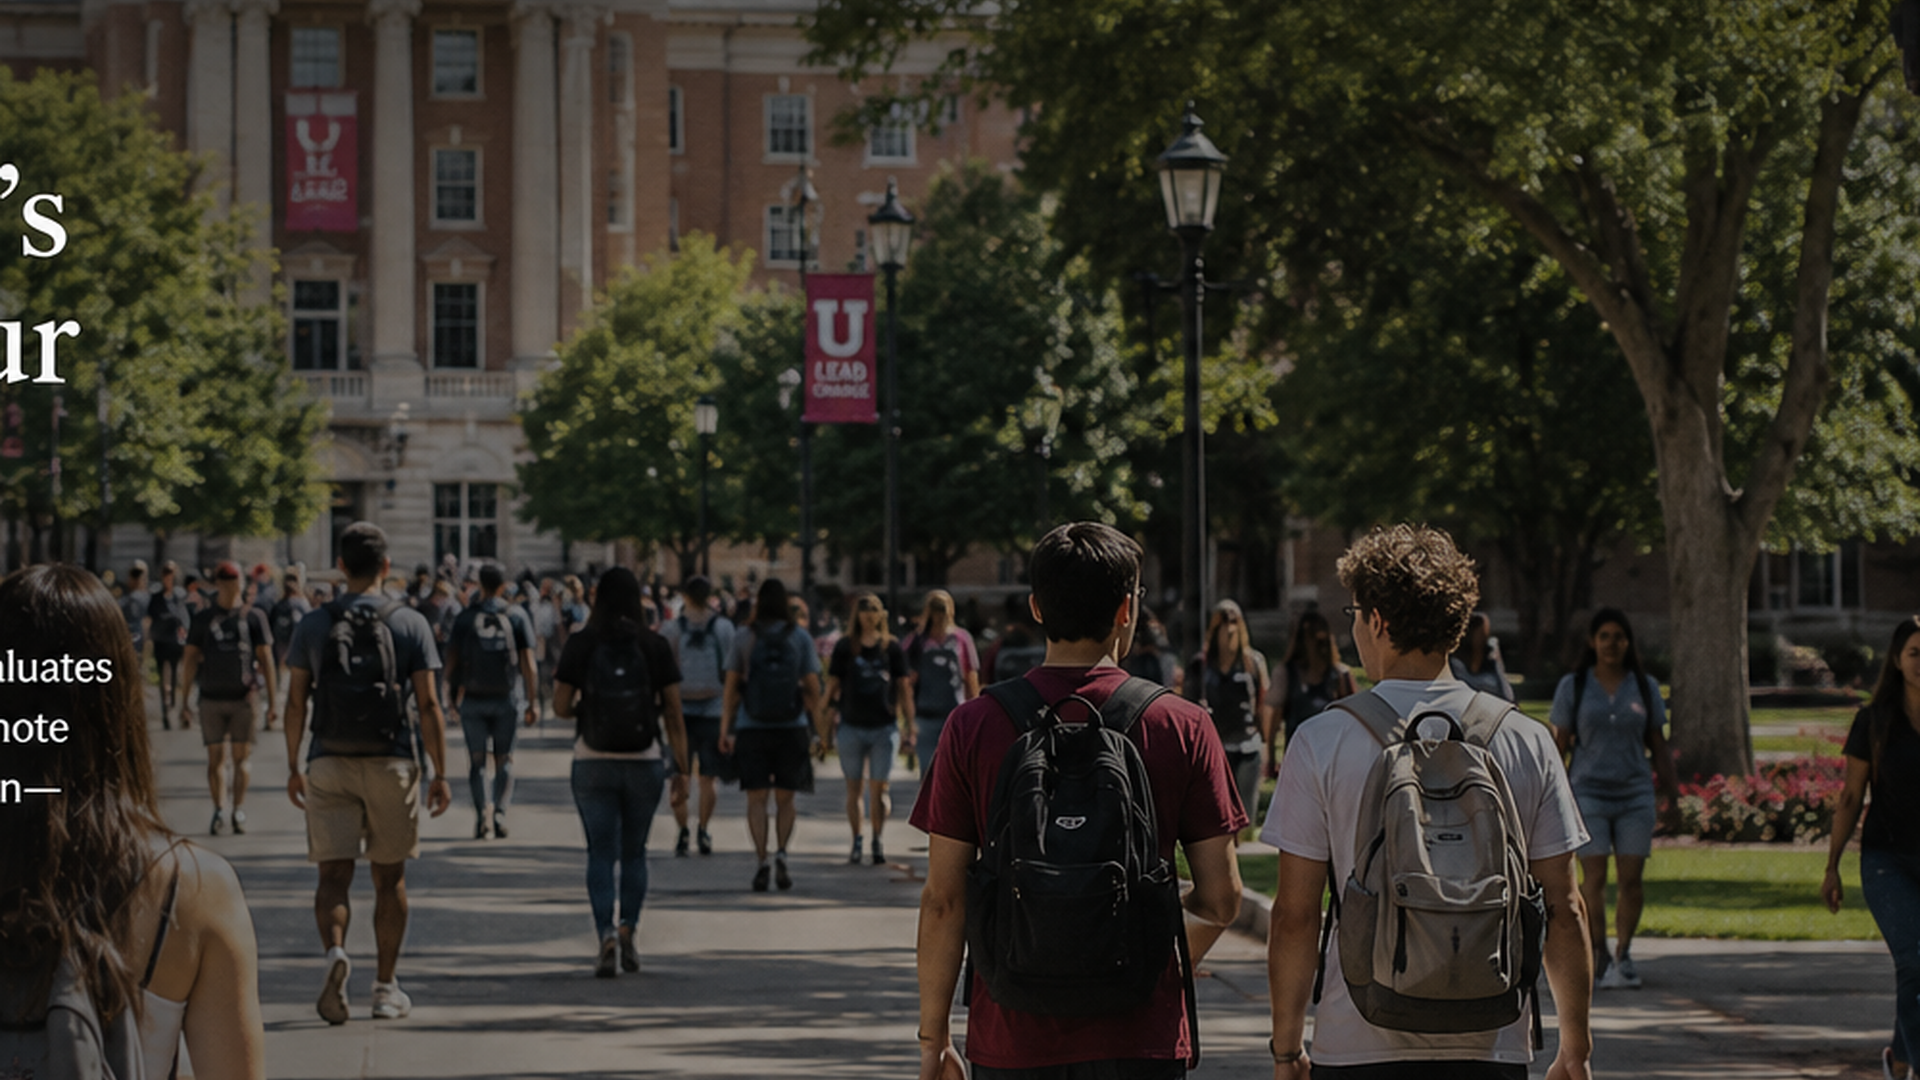
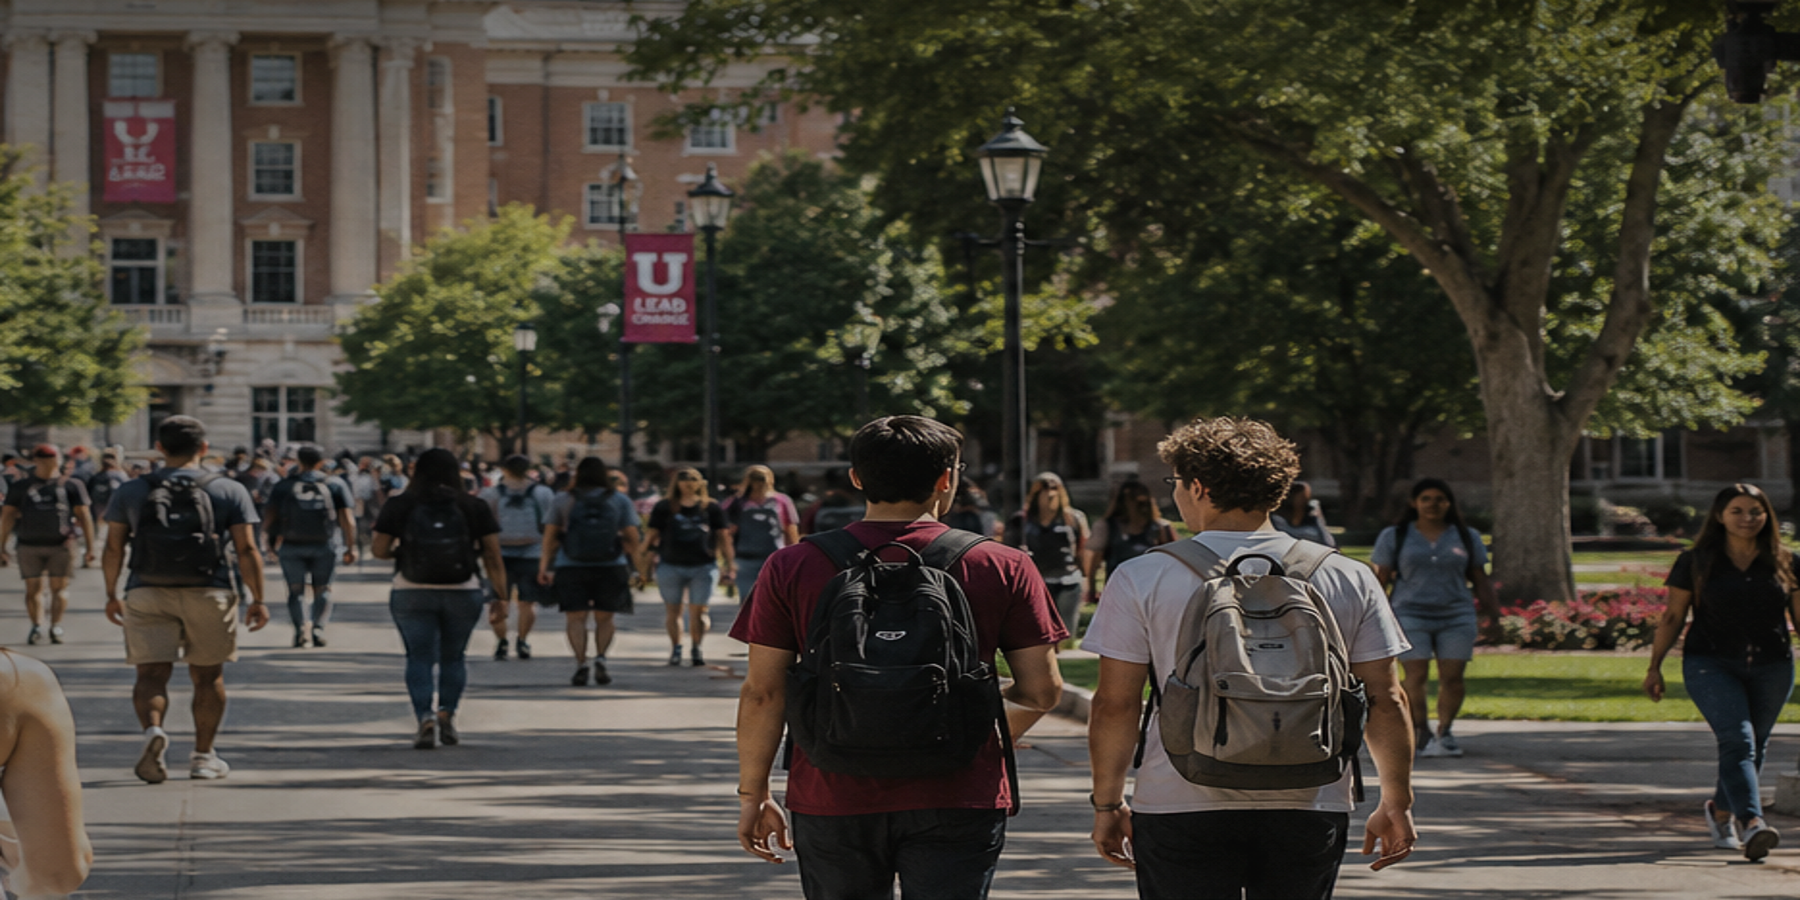
Add files via upload

diff --git a/assets/styles.css b/assets/styles.css
@@ -1,0 +1,220 @@
+:root {
+  --maroon: #9f1f26;
+  --maroon-dark: #75141a;
+  --ink: #171414;
+  --paper: #fffdf8;
+  --cream: #f7f2e9;
+  --muted: #625a55;
+  --line: #e8dfd6;
+  --gold: #b39249;
+}
+* { box-sizing: border-box; }
+html { scroll-behavior: smooth; }
+body {
+  margin: 0;
+  font-family: Georgia, 'Times New Roman', serif;
+  color: var(--ink);
+  background: var(--paper);
+}
+a { color: inherit; }
+.site-header {
+  position: sticky;
+  top: 0;
+  z-index: 10;
+  display: flex;
+  justify-content: space-between;
+  align-items: center;
+  gap: 24px;
+  padding: 20px clamp(20px, 4vw, 72px);
+  background: rgba(255,253,248,.94);
+  backdrop-filter: blur(10px);
+  border-bottom: 1px solid rgba(232,223,214,.9);
+}
+.brand {
+  font-size: clamp(1.6rem, 3vw, 3rem);
+  line-height: 1;
+  font-weight: 700;
+  text-decoration: none;
+  letter-spacing: -.03em;
+}
+.main-nav {
+  display: flex;
+  gap: clamp(18px, 3vw, 44px);
+  align-items: center;
+  font-size: clamp(1rem, 1.5vw, 1.35rem);
+  font-weight: 700;
+}
+.main-nav a {
+  text-decoration: none;
+  padding-bottom: 7px;
+  border-bottom: 2px solid transparent;
+}
+.main-nav a:hover,
+.main-nav a.active { color: var(--maroon); border-bottom-color: var(--maroon); }
+.hero {
+  position: relative;
+  min-height: 76vh;
+  display: grid;
+  align-items: center;
+  overflow: hidden;
+  background: linear-gradient(90deg, rgba(255,253,248,.93) 0%, rgba(255,253,248,.76) 38%, rgba(255,253,248,.18) 100%), url('campus-background.png') center/cover no-repeat;
+}
+.hero-inner {
+  width: min(1180px, calc(100% - 40px));
+  margin: 0 auto;
+  display: grid;
+  grid-template-columns: 1fr minmax(260px, 380px);
+  gap: clamp(32px, 7vw, 90px);
+  align-items: center;
+  padding: 70px 0;
+}
+.hero h1 {
+  margin: 0;
+  max-width: 650px;
+  font-size: clamp(3rem, 8vw, 6.6rem);
+  line-height: .94;
+  letter-spacing: -.05em;
+}
+.accent-line {
+  width: 150px;
+  height: 5px;
+  margin: 26px 0;
+  background: var(--maroon);
+}
+.hero p {
+  max-width: 610px;
+  margin: 0;
+  font-family: system-ui, -apple-system, BlinkMacSystemFont, 'Segoe UI', sans-serif;
+  font-size: clamp(1.05rem, 2vw, 1.35rem);
+  line-height: 1.65;
+}
+.hero-label {
+  width: 100%;
+  max-height: 540px;
+  object-fit: contain;
+  filter: drop-shadow(0 22px 35px rgba(0,0,0,.25));
+}
+.button {
+  display: inline-block;
+  margin-top: 26px;
+  padding: 14px 22px;
+  border-radius: 7px;
+  background: var(--maroon);
+  color: white;
+  text-decoration: none;
+  font-family: system-ui, -apple-system, BlinkMacSystemFont, 'Segoe UI', sans-serif;
+  font-weight: 800;
+  letter-spacing: .02em;
+  border: 0;
+  cursor: pointer;
+}
+.button:hover { background: var(--maroon-dark); }
+.main-screen-button { margin-top: 22px; }
+.section {
+  max-width: 1120px;
+  margin: 0 auto;
+  padding: 76px 24px;
+}
+.section.narrow { max-width: 900px; }
+.section h1,
+.section h2 {
+  font-size: clamp(2.4rem, 5vw, 4.4rem);
+  line-height: 1.02;
+  margin: 0 0 18px;
+  letter-spacing: -.04em;
+}
+.section h3 { font-size: 1.6rem; margin-bottom: 10px; }
+.lead,
+.section p,
+.section li,
+.editor-label {
+  font-family: system-ui, -apple-system, BlinkMacSystemFont, 'Segoe UI', sans-serif;
+  font-size: 1.1rem;
+  line-height: 1.75;
+  color: #322d29;
+}
+.page-hero {
+  background: linear-gradient(90deg, rgba(23,20,20,.62), rgba(23,20,20,.28)), url('campus-background.png') center/cover no-repeat;
+  color: white;
+  padding: 110px 24px;
+}
+.page-hero > div { max-width: 1120px; margin: 0 auto; }
+.page-hero h1 { font-size: clamp(3rem, 7vw, 6rem); line-height: .95; margin: 0; letter-spacing: -.05em; }
+.page-hero p { max-width: 720px; font-family: system-ui, -apple-system, BlinkMacSystemFont, 'Segoe UI', sans-serif; font-size: 1.25rem; line-height: 1.65; }
+.cards,
+.label-grid {
+  display: grid;
+  grid-template-columns: repeat(3, 1fr);
+  gap: 22px;
+  margin-top: 34px;
+}
+.info-card,
+.label-card,
+.editor-card {
+  border: 1px solid var(--line);
+  border-radius: 20px;
+  padding: 28px;
+  background: white;
+  box-shadow: 0 12px 35px rgba(0,0,0,.06);
+}
+.info-card h3,
+.label-card h3 { margin: 0 0 10px; }
+.info-card p,
+.label-card p { margin: 0; font-size: 1rem; line-height: 1.65; }
+.card-link {
+  display: inline-block;
+  margin-top: 18px;
+  color: var(--maroon);
+  font-family: system-ui, -apple-system, BlinkMacSystemFont, 'Segoe UI', sans-serif;
+  font-weight: 800;
+  text-decoration: none;
+}
+.badge {
+  display: inline-block;
+  font-family: system-ui, -apple-system, BlinkMacSystemFont, 'Segoe UI', sans-serif;
+  font-size: .8rem;
+  font-weight: 800;
+  letter-spacing: .08em;
+  text-transform: uppercase;
+  color: var(--maroon);
+  background: #f7e9ea;
+  border-radius: 999px;
+  padding: 6px 10px;
+  margin-bottom: 14px;
+}
+.blog-note {
+  border-left: 6px solid var(--maroon);
+  background: #fff;
+  padding: 24px;
+  margin-top: 28px;
+  box-shadow: 0 8px 24px rgba(0,0,0,.04);
+}
+.textbox {
+  width: 100%;
+  min-height: 320px;
+  resize: vertical;
+  border: 1px solid var(--line);
+  border-radius: 16px;
+  padding: 20px;
+  font-family: system-ui, -apple-system, BlinkMacSystemFont, 'Segoe UI', sans-serif;
+  font-size: 1rem;
+  line-height: 1.6;
+  color: #322d29;
+  background: #fff;
+}
+.editor-card { margin-top: 28px; }
+.editor-label { display: block; font-weight: 800; color: var(--ink); margin-bottom: 10px; }
+.footer {
+  padding: 34px 24px;
+  text-align: center;
+  font-family: system-ui, -apple-system, BlinkMacSystemFont, 'Segoe UI', sans-serif;
+  color: var(--muted);
+  border-top: 1px solid var(--line);
+}
+@media (max-width: 900px) {
+  .site-header { position: static; align-items: flex-start; flex-direction: column; }
+  .main-nav { flex-wrap: wrap; }
+  .hero-inner { grid-template-columns: 1fr; }
+  .hero-label { max-width: 360px; }
+  .cards, .label-grid { grid-template-columns: 1fr; }
+}
